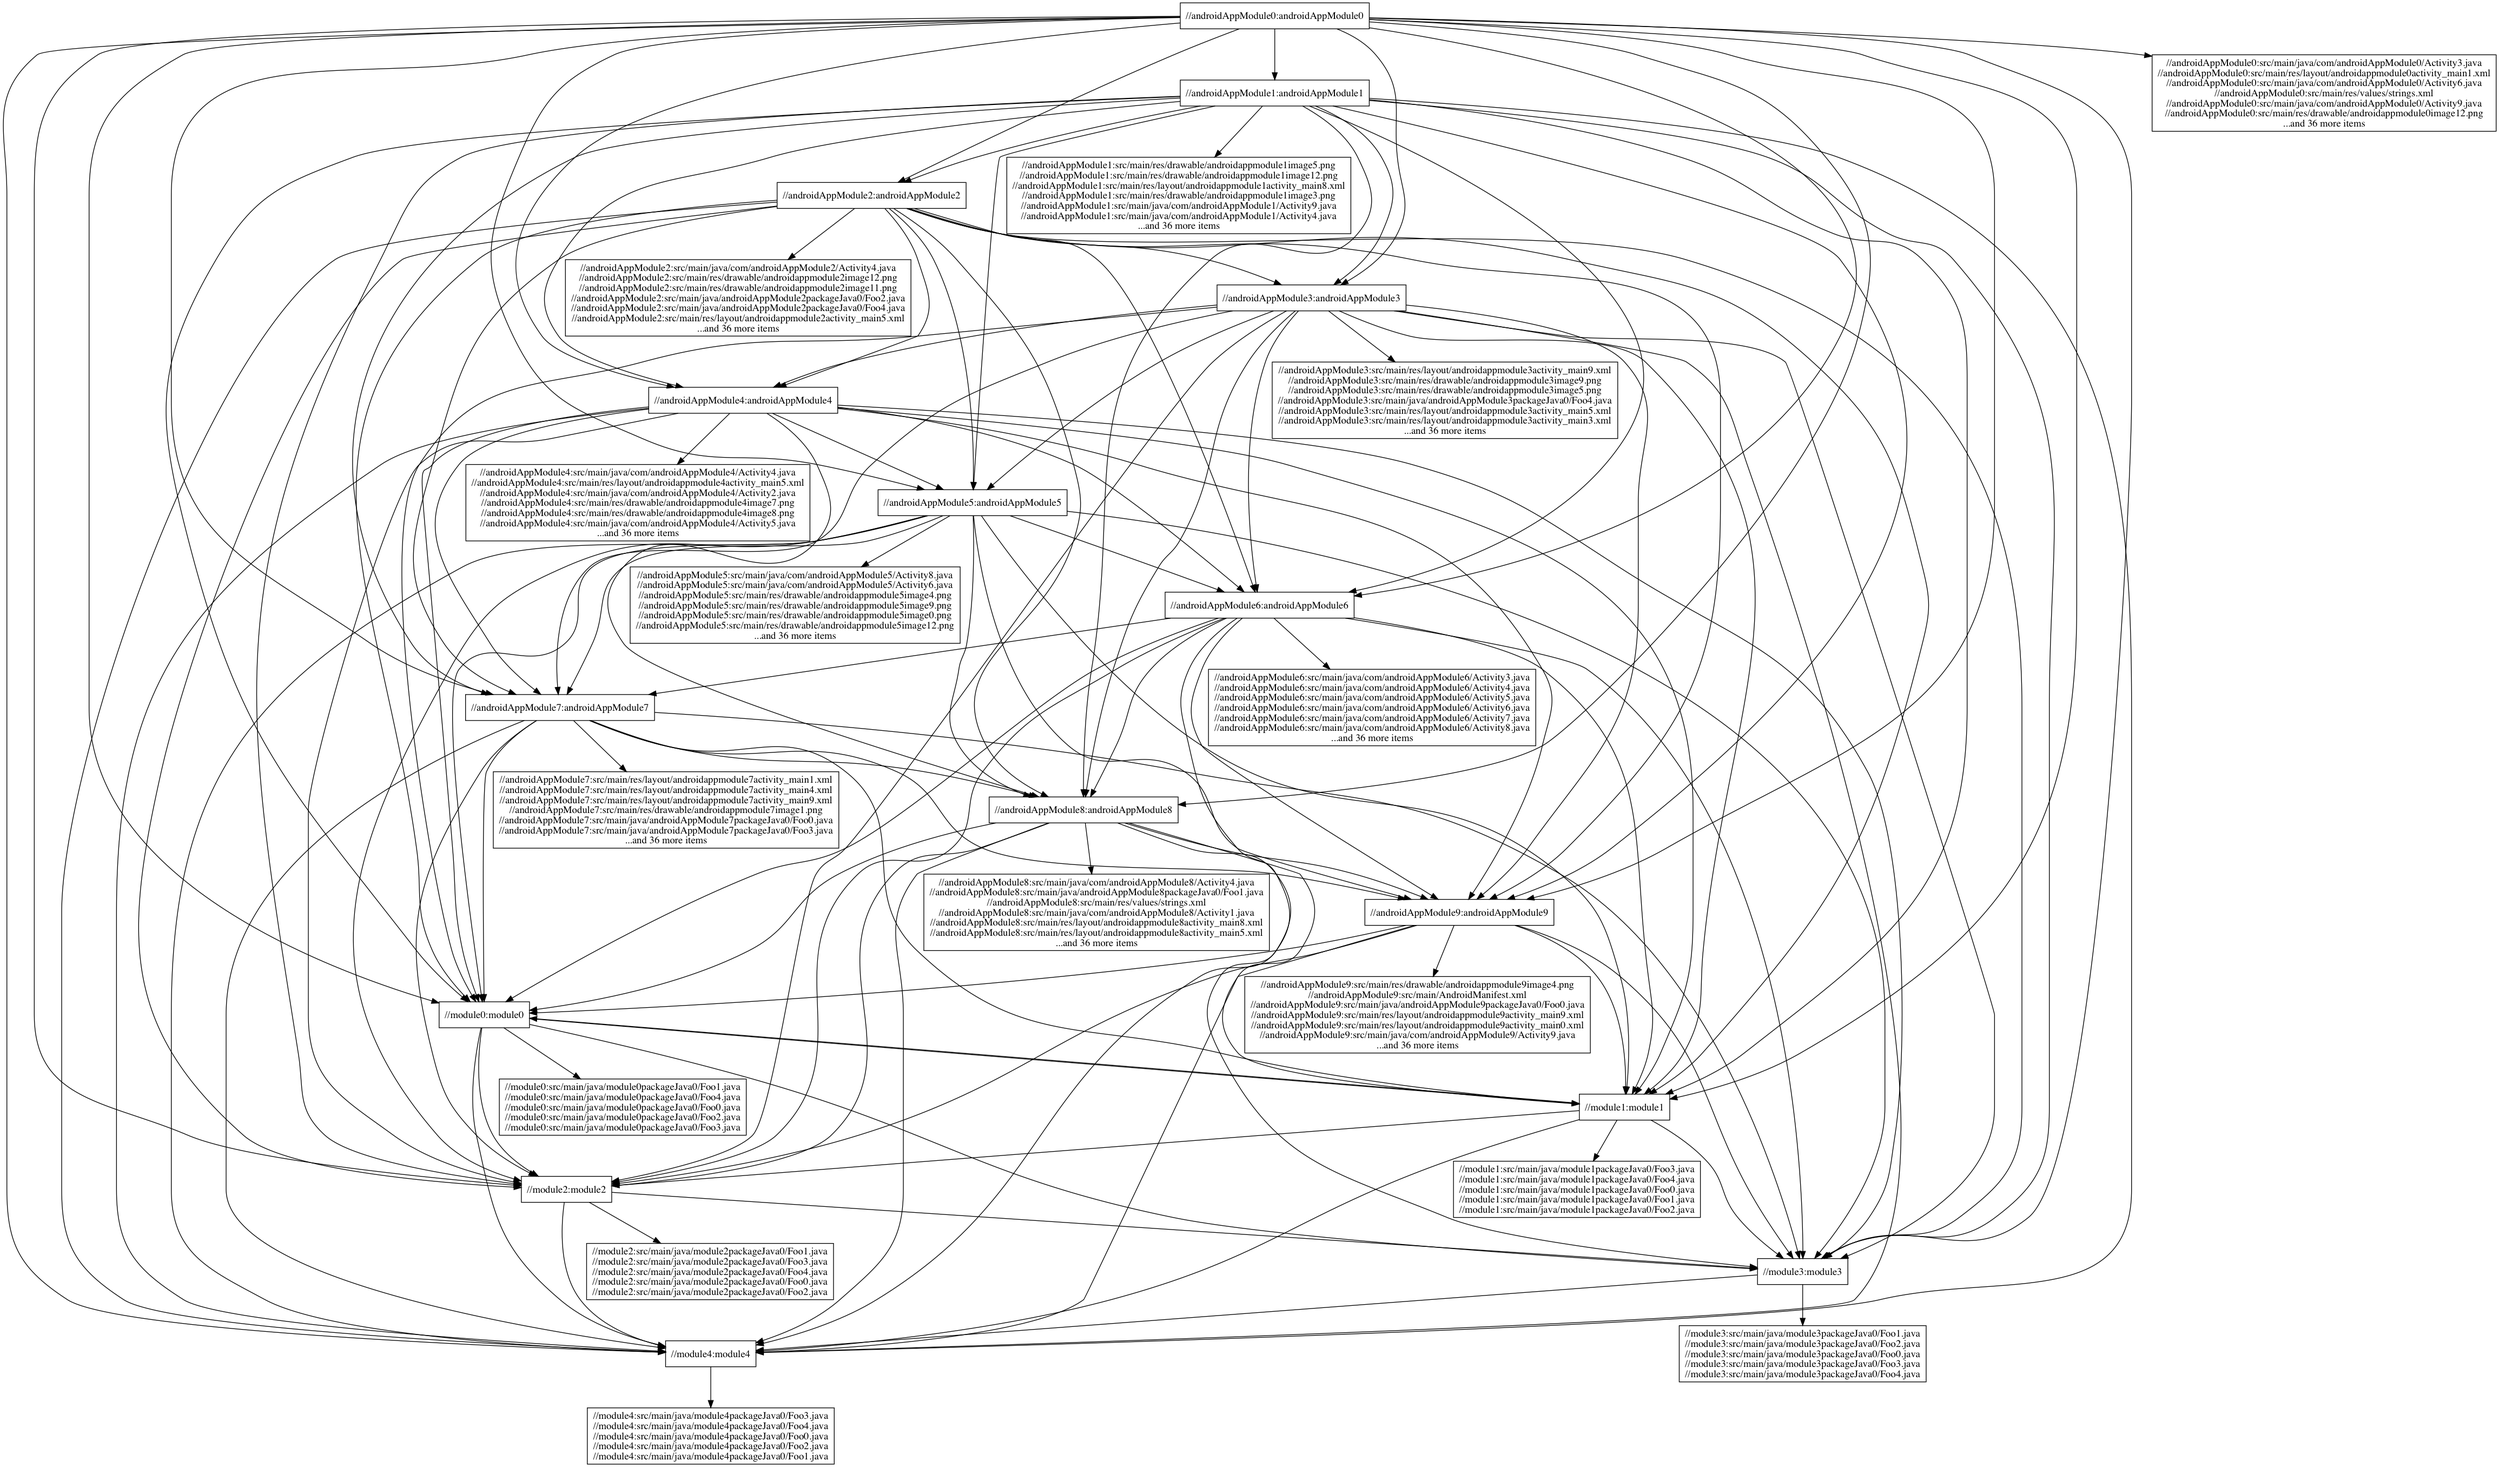
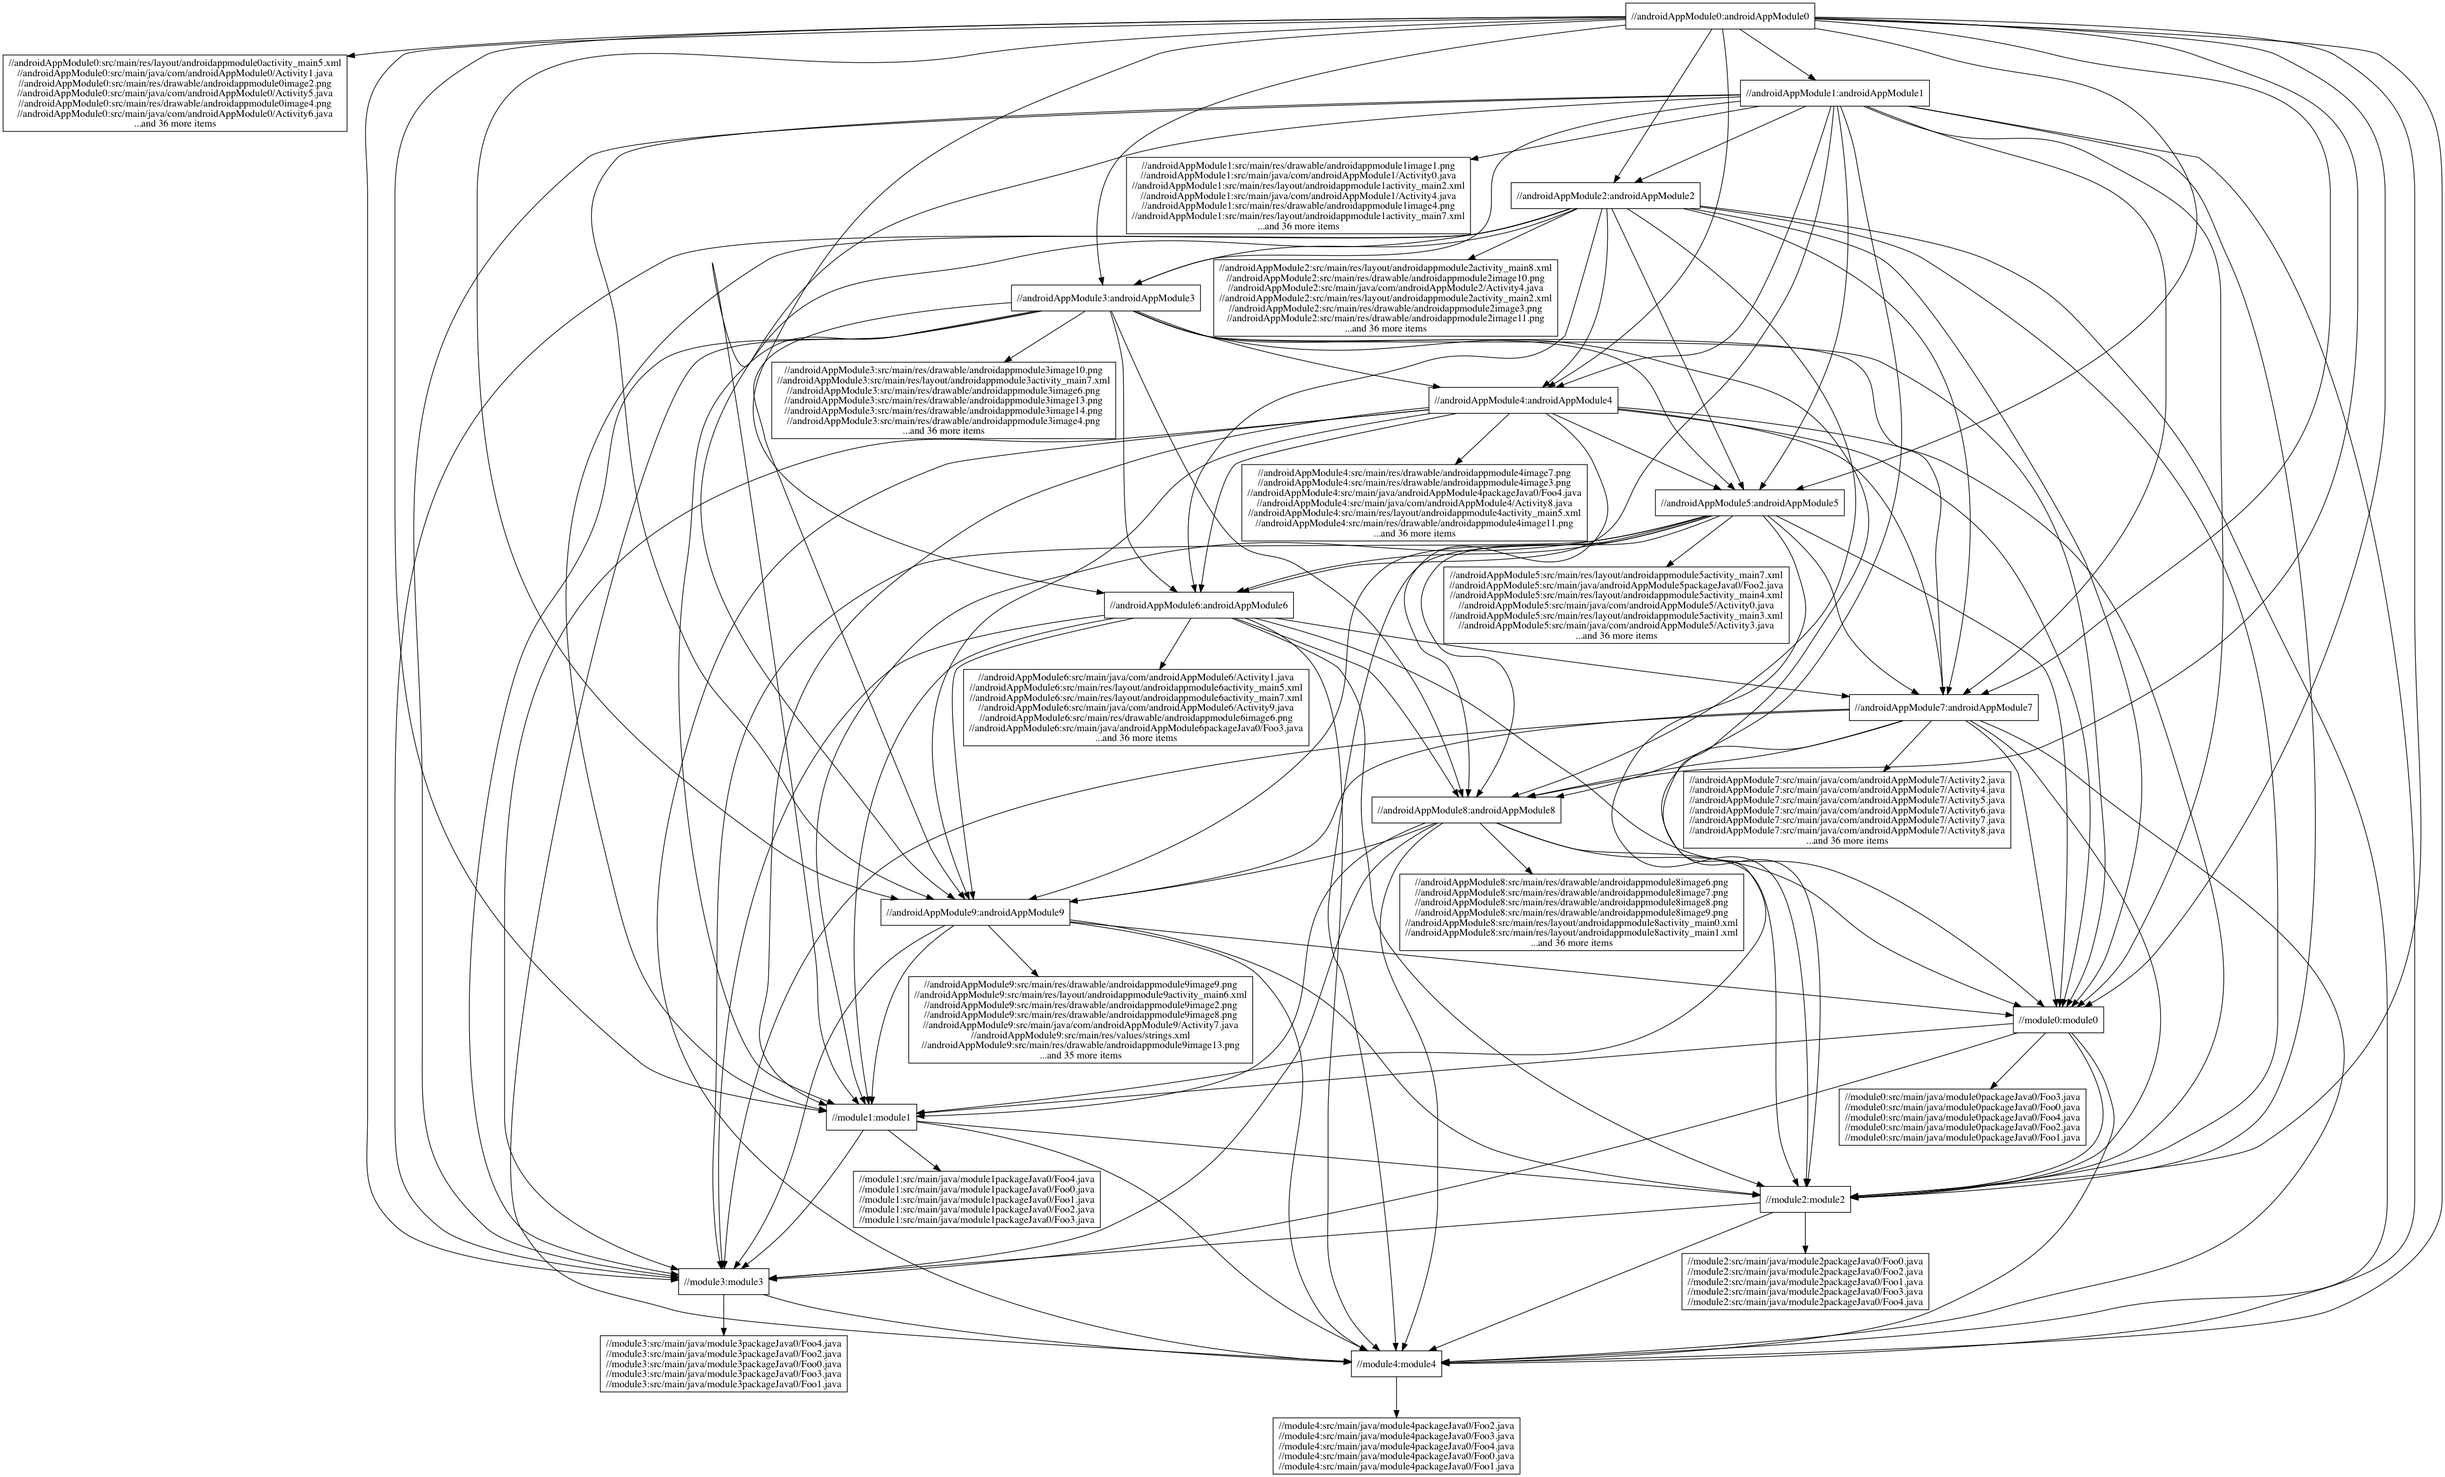
Update full to break dependency cycle

diff --git a/full/module1/src/main/java/module1packageJava0/Foo0.java b/full/module1/src/main/java/module1packageJava0/Foo0.java
@@ -3,7 +3,6 @@ package module1packageJava0;
 public class Foo0 {
   public void foo0() {
     final Runnable anything = () -> System.out.println("anything");
-    new module0packageJava0.Foo4().foo3();
     new module2packageJava0.Foo4().foo3();
     new module3packageJava0.Foo4().foo3();
     new module4packageJava0.Foo4().foo3();
